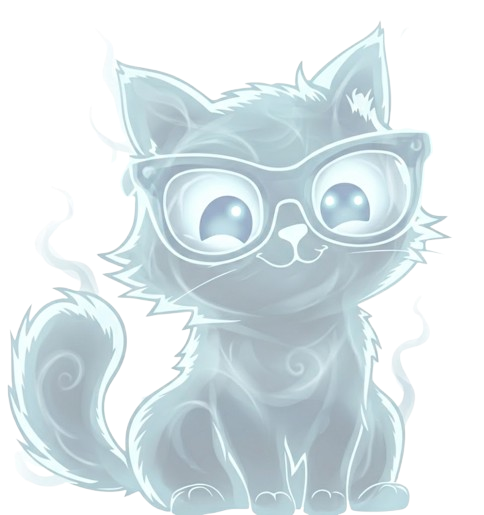
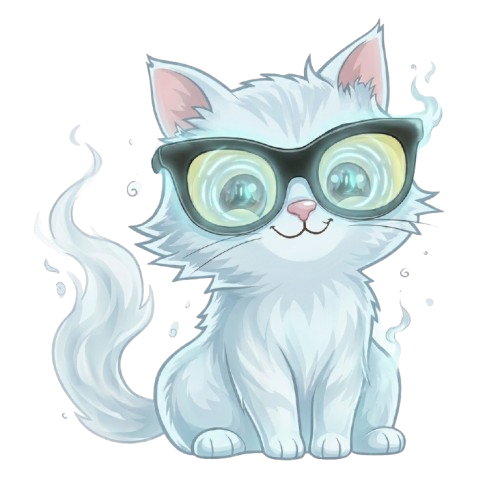
Adds boxes and fixes cats

diff --git a/src/entities/box.tsx b/src/entities/box.tsx
@@ -1,0 +1,18 @@
+import open_box from '../assets/open-box.png';
+import closed_box from '../assets/closed-box.png';
+
+export function OpenBox() {
+  return (
+    <div className="w-full h-full">
+      <img src={open_box} alt="Open Box" className="w-full h-full" />
+    </div>
+  );
+}
+
+export function ClosedBox() {
+  return (
+    <div className="w-full h-full">
+        <img src={closed_box} alt="Closed Box" className="w-full h-full" />
+    </div>
+    );
+}

diff --git a/src/components/map.tsx b/src/components/map.tsx
@@ -1,5 +1,4 @@
-import Cat from "../entities/cat"
-import Fish from "../entities/fish"
+import { Cat, OpenBox, ClosedBox } from "../entities"
 import type { CellProps, MapProps } from "../types/map"
 
 function Cell({ index, children }: CellProps) {
@@ -15,7 +14,7 @@ function Cell({ index, children }: CellProps) {
 
 export function Map({ cols, catPosition, fishPosition, hasWon }: MapProps) {
   const catIndex = catPosition[1] * cols + catPosition[0];
-  const fishIndex = fishPosition[1] * cols + fishPosition[0];
+  const boxIndex = fishPosition[1] * cols + fishPosition[0];
 
   return (
     <div className="flex flex-col">
@@ -29,7 +28,7 @@ export function Map({ cols, catPosition, fishPosition, hasWon }: MapProps) {
             </p>
 
             <p className="text-center mt-2 text-lg">
-              O gato alcançou o peixe! 🐱🐟
+              O gato entrou na caixa! 🐱📦
             </p>
           </div>
         </div>
@@ -67,8 +66,14 @@ export function Map({ cols, catPosition, fishPosition, hasWon }: MapProps) {
         >
           {Array.from({ length: cols * 2 }, (_, i) => (
             <Cell key={i} index={i}>
-              {i === catIndex && <Cat type="red" />}
-              {i === fishIndex && <Fish />}
+              {i === catIndex && i === boxIndex ? (
+                <ClosedBox />
+              ) : (
+                <>
+                  {i === catIndex && <Cat type="orange" />}
+                  {i === boxIndex && <OpenBox />}
+                </>
+              )}
             </Cell>
           ))}
         </div>

diff --git a/src/entities/cat.tsx b/src/entities/cat.tsx
@@ -6,11 +6,12 @@ import pink_cat from "../assets/cats/pink-cat.png"
 import ghost_cat from "../assets/cats/ghost-cat.png"
 import yellow_cat from "../assets/cats/yellow-cat.png"
 import red_cat from "../assets/cats/red-cat.png"
+import grey_cat from "../assets/cats/grey-cat.png"
 
-type CatType = "orange" | "black" | "white" | "brown" | "pink" | "yellow" | "red" | "ghost";
+type CatType = "orange" | "black" | "white" | "brown" | "pink" | "yellow" | "red" | "grey" | "ghost";
 
 
-export default function Cat({ type }: { type: CatType }) {
+export function Cat({ type }: { type: CatType }) {
   let catImage;
   
   switch (type) {
@@ -37,6 +38,9 @@ export default function Cat({ type }: { type: CatType }) {
       break;
     case "red":
       catImage = red_cat;
+      break;
+    case "grey":
+      catImage = grey_cat;
       break;
     default:
       catImage = orange_cat;

diff --git a/index.html b/index.html
@@ -2,9 +2,9 @@
 <html lang="en">
   <head>
     <meta charset="UTF-8" />
-    <link rel="icon" type="image/svg+xml" href="/favicon.svg" />
+    <link rel="icon" type="image/svg+xml" href="/favicon.png" />
     <meta name="viewport" content="width=device-width, initial-scale=1.0" />
-    <title>my-app</title>
+    <title>Quantic Cat</title>
   </head>
   <body>
     <div id="root"></div>

diff --git a/src/data/descriptions.tsx b/src/data/descriptions.tsx
@@ -8,14 +8,14 @@ export const descriptions = [
           Além disso, todos os gates movem o gato para a direita, ou seja, eles avançam o gato uma coluna no mapa.
         </p>
         <p>
-          O objetivo é usar os gates para levar o gato até o peixe, que está na última coluna do mapa. 
+          O objetivo é usar os gates para levar o gato até a caixa, que está na última coluna do mapa. 
         </p>
         <p>
           O comando {" "}
           <code className="px-1 py-0.5 rounded text-sm font-mono">
             qc.id(0)
           </code>
-          {" "} é um gate de identidade, ou seja, ele não altera o estado do qubit. No entanto, ele ainda move o gato para a direita! Use isso para ajudar o gato a chegar ao peixe!
+          {" "} é um gate de identidade, ou seja, ele não altera o estado do qubit. No entanto, ele ainda move o gato para a direita! Use isso para ajudar o gato a entrar na caixa!
         </p>
       </>
     ),

diff --git a/src/entities/index.ts b/src/entities/index.ts
@@ -1,0 +1,2 @@
+export { Cat } from "./cat";
+export { OpenBox, ClosedBox } from "./box";